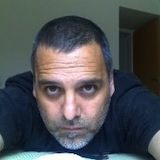
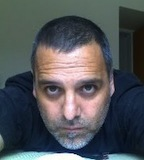
Fixes in header

diff --git a/index.html b/index.html
@@ -39,11 +39,11 @@
 			<!-- Header -->
 			<header class="row-fluid">
 				<div class="span8">
-					<img src="assets/img/profile.jpg" title="That`s me!" alt="My Profile"/>
+					<img class="logo" src="assets/img/profile.jpg" title="Yes, it's me" alt="My Profile"/>
 					<h1>Pablo Medina</h1>
 					<h2>The Sysadmin Online</h2>
 				</div>
-				<div class="social offset1 span3">
+				<div class="social span3">
 					<ul>
 						<li><i class="icon-envelope-alt"></i>pablo.medina@sysadminonline.com</li>
 						<li><i class="icon-phone"></i> +54 9280 453 4015</li>
@@ -74,7 +74,7 @@
 					All my work was done via Rentacoder (now Freelancer) since 2002. I managed to be ranked 289 in their <strong>"All Coder competition ranking"</strong> , with 405 jobs completed with an average rating of 9.91.
 					</p>
 					<p class="welcome">
-						Since 2008, i started to use odesk with great success. Please check <a href="https://www.odesk.com/o/profiles/users/_~01fb91dedec6e31627/"><strong>my profile</strong></a> there and  post a bid for me if you are interested in my services, or you can check my expertise areas to know more about me.
+						Since 2008, i started to use <a href="https://www.odesk.com"><strong>oDesk</strong></a> with great success. Please check <a href="https://www.odesk.com/o/profiles/users/_~01fb91dedec6e31627/"><strong>my profile</strong></a> there and  post a bid for me if you are interested in my services, or you can check my expertise areas to know more about me.
 					</p>
 					<p class="auth"> <i>Pablo E. Medina</i>  </p>
 				</div>

diff --git a/assets/css/style.css b/assets/css/style.css
@@ -1543,3 +1543,7 @@ ul.icons li .icon-large:before {
 .icon-user-md {
   *zoom: expression( this.runtimeStyle['zoom'] = '1', this.innerHTML = '&#xf200;&nbsp;');
 }
+
+.logo {
+	padding:4px;
+}
